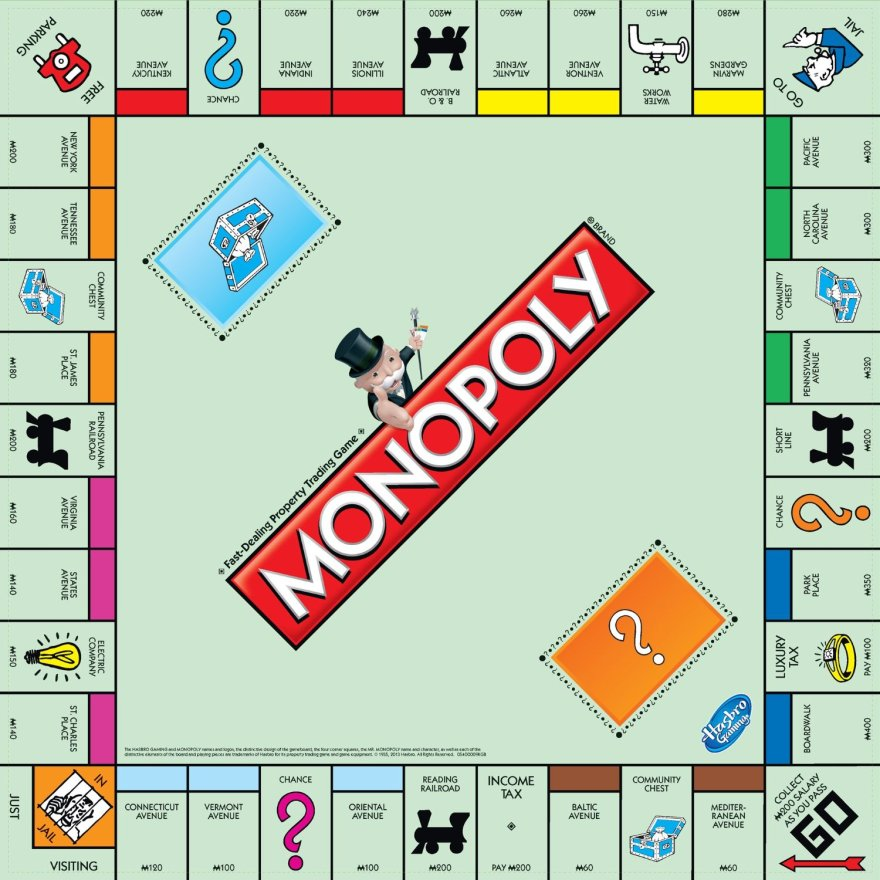
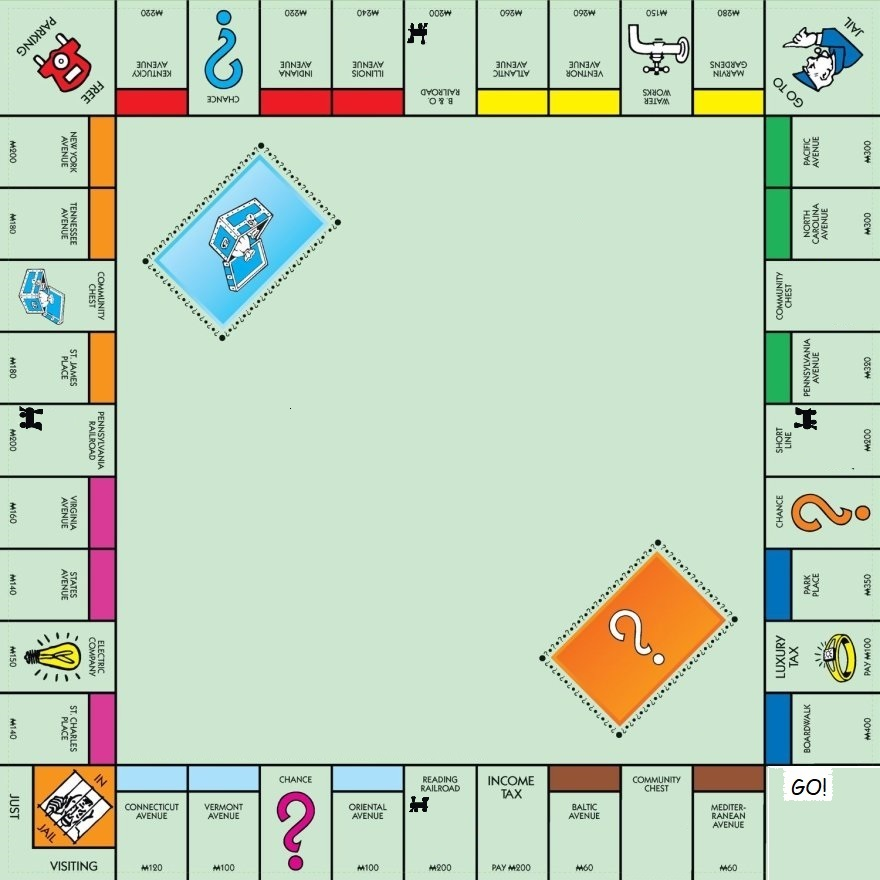
Game logic updates, correct player position displayed on map.

diff --git a/src/com/company/GameLogic.java b/src/com/company/GameLogic.java
@@ -17,8 +17,10 @@ public class GameLogic {
         return tmp;
     }
 
-    int XonMap(int place)
+    int XonMap(int placetotal)
     {
+        int place=placetotal%40;
+        if (place==-1) return -100;
         if (place==0) return 772;
         if (place==1) return 700;
         if (place==2) return 622;
@@ -40,7 +42,71 @@ public class GameLogic {
         if (place==18) return 15;
         if (place==19) return 15;
         if (place==20) return 15;
-
+        if (place==21) return 120;
+        if (place==22) return 190;
+        if (place==23) return 262;
+        if (place==24) return 335;
+        if (place==25) return 405;
+        if (place==26) return 478;
+        if (place==27) return 555;
+        if (place==28) return 622;
+        if (place==29) return 700;
+        if (place==30) return 772;
+        if (place==31) return 772;
+        if (place==32) return 772;
+        if (place==33) return 772;
+        if (place==34) return 772;
+        if (place==35) return 772;
+        if (place==36) return 772;
+        if (place==37) return 772;
+        if (place==38) return 772;
+        if (place==39) return 772;
+        return 400;
+    }
+    int YonMap(int placetotal)
+    {
+        int place=placetotal%40;
+        if (place==-1) return -100;
+        if (place==0) return 800;
+        if (place==1) return 800;
+        if (place==2) return 800;
+        if (place==3) return 800;
+        if (place==4) return 800;
+        if (place==5) return 800;
+        if (place==6) return 800;
+        if (place==7) return 800;
+        if (place==8) return 800;
+        if (place==9) return 800;
+        if (place==10) return 772-15;
+        if (place==11) return 700-15;
+        if (place==12) return 622-15;
+        if (place==13) return 555-15;
+        if (place==14) return 478-15;
+        if (place==15) return 405-15;
+        if (place==16) return 335-15;
+        if (place==17) return 262-15;
+        if (place==18) return 190-15;
+        if (place==19) return 120-15;
+        if (place==20) return 30;
+        if (place==21) return 30;
+        if (place==22) return 30;
+        if (place==23) return 30;
+        if (place==24) return 30;
+        if (place==25) return 30;
+        if (place==26) return 30;
+        if (place==27) return 30;
+        if (place==28) return 30;
+        if (place==29) return 30;
+        if (place==30) return 30;
+        if (place==31) return 120-15;
+        if (place==32) return 190-15;
+        if (place==33) return 262-15;
+        if (place==34) return 335-15;
+        if (place==35) return 405-15;
+        if (place==36) return 478-15;
+        if (place==37) return 555-15;
+        if (place==38) return 622-15;
+        if (place==39) return 700-15;
 
         return 400;
     }

diff --git a/src/com/company/Main.java b/src/com/company/Main.java
@@ -60,6 +60,9 @@ class MyJComponent extends JComponent {
     Player P4=new Player();
 
     JLabel P1l=new JLabel();
+    JLabel P2l=new JLabel();
+    JLabel P3l=new JLabel();
+    JLabel P4l=new JLabel();
 
 
     void currentplayerthread()
@@ -74,15 +77,34 @@ class MyJComponent extends JComponent {
                 playerlabel.setBounds(270, 100, 300, 80);
                 add(playerlabel);
 
-                P1l.setBounds(G1.XonMap(1),800,40,40);
+                P1l.setBounds(G1.XonMap(P1.position),G1.YonMap(P1.position),35,40);
+                P2l.setBounds(G1.XonMap(P2.position)+35,G1.YonMap(P2.position),35,40);
+                P3l.setBounds(G1.XonMap(P3.position),G1.YonMap(P3.position)+40,35,40);
+                P4l.setBounds(G1.XonMap(P4.position)+35,G1.YonMap(P4.position)+40,35,40);
+
                 P1l.setText("P1");
+                P2l.setText("P2");
+                P3l.setText("P3");
+                P4l.setText("P4");
+
                 P1l.setForeground(Color.RED);
+                P2l.setForeground(Color.BLACK);
+                P3l.setForeground(Color.BLUE);
+                P4l.setForeground(Color.magenta);
+
                 P1l.setFont(new Font("Serif", Font.BOLD, 30));
+                P2l.setFont(new Font("Serif", Font.BOLD, 30));
+                P3l.setFont(new Font("Serif", Font.BOLD, 30));
+                P4l.setFont(new Font("Serif", Font.BOLD, 30));
+
                 add(P1l);
+                add(P2l);
+                add(P3l);
+                add(P4l);
 
 
                 //repaint(270,100,300,80);
-                repaint();
+                repaint(0,0,900,900);
                 try {
                     Thread.sleep(200);
                 } catch (InterruptedException e) {
@@ -178,6 +200,13 @@ class MyJComponent extends JComponent {
                         {
                             removeAll();
                             repaint();
+                            if(NumberOfPlayers==2)
+                            {
+                                P3.ChangePosition(-1);
+                                P4.ChangePosition(-1);
+                            }
+                            if (NumberOfPlayers==3) P4.ChangePosition(-1);
+
 
                             ImageIcon image5=createImageIcon("/StartingGameIn.jpg","");
                             JLabel image5l=new JLabel(image5);
